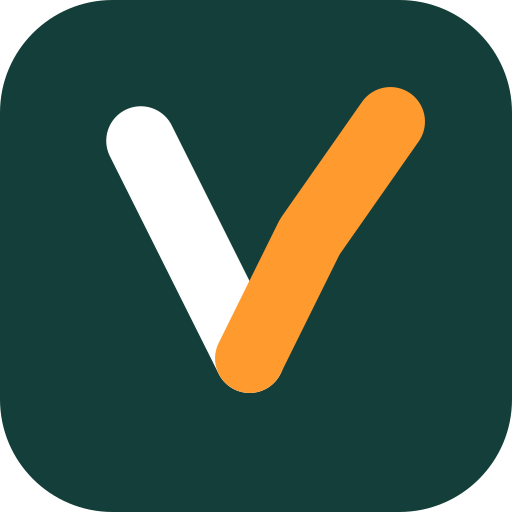
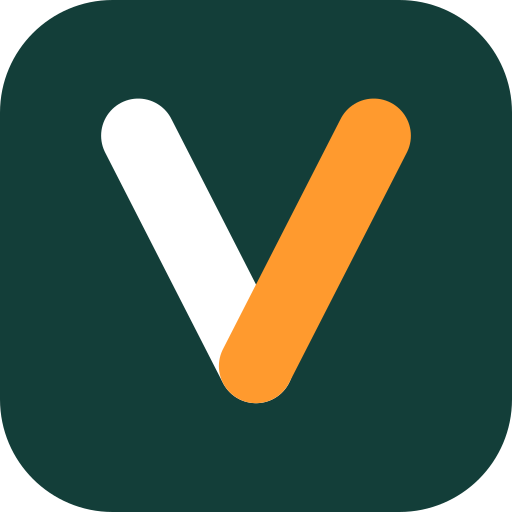
feat(brand): adopt the symmetric V mark across the product
The new mark replaces the asymmetric V/checkmark: both arms now share the
same length and mirrored inclination (M10.8 10.6 L20 28.6 L29.2 10.6,
stroke 5.8), with the colour split falling exactly on the vertex.

Applied at every source of the mark, so no surface keeps the old geometry:
- src/app/icon.svg (browser tab)
- src/components/public/Logo.tsx (header/footer wordmark, embed shell)
- src/lib/widgets/images.tsx (Mark, used by the OG/widget cards)
- scripts/generate-brand-assets.mjs (markPaths), then re-run to regenerate
  icon-192/512, icon-maskable-512, favicon, apple-icon and opengraph-image
- design/instagram-{post,story}.html — the delivered kit missed these; the
  exported PNGs next to them still show the old mark and need a re-render

brand/ keeps the kit as delivered, for provenance. Its patch/*.tsx files are
code fragments rather than modules, so brand/ is excluded from tsconfig and
eslint — otherwise typecheck fails on their undefined colour constants.

diff --git a/design/instagram-post.html b/design/instagram-post.html
@@ -130,8 +130,8 @@ p.txt + p.txt{margin-top:28px}
   <div class="layer head">
     <svg width="34" height="34" viewBox="0 0 40 40" fill="none" aria-hidden="true">
       <rect width="40" height="40" rx="11" fill="#133e39"/>
-      <path d="M11 11 L19.5 28" stroke="#ffffff" stroke-width="5.4" stroke-linecap="round" stroke-linejoin="round"/>
-      <path d="M19.5 28 L24.2 18.5 L30.5 9.5" stroke="#ff9a2e" stroke-width="5.4" stroke-linecap="round" stroke-linejoin="round"/>
+      <path d="M10.8 10.6 L20 28.6" stroke="#ffffff" stroke-width="5.8" stroke-linecap="round" stroke-linejoin="round"/>
+      <path d="M20 28.6 L29.2 10.6" stroke="#ff9a2e" stroke-width="5.8" stroke-linecap="round" stroke-linejoin="round"/>
     </svg>
     <span class="wm">Votto</span>
     <span class="pg">1 / 5</span>
@@ -166,8 +166,8 @@ p.txt + p.txt{margin-top:28px}
   <div class="layer head">
     <svg width="34" height="34" viewBox="0 0 40 40" fill="none" aria-hidden="true">
       <rect width="40" height="40" rx="11" fill="#133e39"/>
-      <path d="M11 11 L19.5 28" stroke="#ffffff" stroke-width="5.4" stroke-linecap="round" stroke-linejoin="round"/>
-      <path d="M19.5 28 L24.2 18.5 L30.5 9.5" stroke="#ff9a2e" stroke-width="5.4" stroke-linecap="round" stroke-linejoin="round"/>
+      <path d="M10.8 10.6 L20 28.6" stroke="#ffffff" stroke-width="5.8" stroke-linecap="round" stroke-linejoin="round"/>
+      <path d="M20 28.6 L29.2 10.6" stroke="#ff9a2e" stroke-width="5.8" stroke-linecap="round" stroke-linejoin="round"/>
     </svg>
     <span class="wm">Votto</span>
     <span class="pg">2 / 5</span>
@@ -209,8 +209,8 @@ p.txt + p.txt{margin-top:28px}
   <div class="layer head">
     <svg width="34" height="34" viewBox="0 0 40 40" fill="none" aria-hidden="true">
       <rect width="40" height="40" rx="11" fill="#133e39"/>
-      <path d="M11 11 L19.5 28" stroke="#ffffff" stroke-width="5.4" stroke-linecap="round" stroke-linejoin="round"/>
-      <path d="M19.5 28 L24.2 18.5 L30.5 9.5" stroke="#ff9a2e" stroke-width="5.4" stroke-linecap="round" stroke-linejoin="round"/>
+      <path d="M10.8 10.6 L20 28.6" stroke="#ffffff" stroke-width="5.8" stroke-linecap="round" stroke-linejoin="round"/>
+      <path d="M20 28.6 L29.2 10.6" stroke="#ff9a2e" stroke-width="5.8" stroke-linecap="round" stroke-linejoin="round"/>
     </svg>
     <span class="wm">Votto</span>
     <span class="pg">3 / 5</span>
@@ -261,8 +261,8 @@ p.txt + p.txt{margin-top:28px}
   <div class="layer head">
     <svg width="34" height="34" viewBox="0 0 40 40" fill="none" aria-hidden="true">
       <rect width="40" height="40" rx="11" fill="#133e39"/>
-      <path d="M11 11 L19.5 28" stroke="#ffffff" stroke-width="5.4" stroke-linecap="round" stroke-linejoin="round"/>
-      <path d="M19.5 28 L24.2 18.5 L30.5 9.5" stroke="#ff9a2e" stroke-width="5.4" stroke-linecap="round" stroke-linejoin="round"/>
+      <path d="M10.8 10.6 L20 28.6" stroke="#ffffff" stroke-width="5.8" stroke-linecap="round" stroke-linejoin="round"/>
+      <path d="M20 28.6 L29.2 10.6" stroke="#ff9a2e" stroke-width="5.8" stroke-linecap="round" stroke-linejoin="round"/>
     </svg>
     <span class="wm">Votto</span>
     <span class="pg">4 / 5</span>
@@ -304,8 +304,8 @@ p.txt + p.txt{margin-top:28px}
   <div class="layer head">
     <svg width="34" height="34" viewBox="0 0 40 40" fill="none" aria-hidden="true">
       <rect width="40" height="40" rx="11" fill="#133e39"/>
-      <path d="M11 11 L19.5 28" stroke="#ffffff" stroke-width="5.4" stroke-linecap="round" stroke-linejoin="round"/>
-      <path d="M19.5 28 L24.2 18.5 L30.5 9.5" stroke="#ff9a2e" stroke-width="5.4" stroke-linecap="round" stroke-linejoin="round"/>
+      <path d="M10.8 10.6 L20 28.6" stroke="#ffffff" stroke-width="5.8" stroke-linecap="round" stroke-linejoin="round"/>
+      <path d="M20 28.6 L29.2 10.6" stroke="#ff9a2e" stroke-width="5.8" stroke-linecap="round" stroke-linejoin="round"/>
     </svg>
     <span class="wm">Votto</span>
     <span class="pg">5 / 5</span>

diff --git a/src/lib/widgets/images.tsx b/src/lib/widgets/images.tsx
@@ -57,11 +57,11 @@ function Mark({ size }: { size: number }) {
   return (
     <svg width={size} height={size} viewBox="0 0 40 40" fill="none">
       <rect x={0} y={0} width={40} height={40} rx={9} fill={SUBTLE} />
-      <path d="M11 11 L19.5 28" stroke={WHITE} strokeWidth={5.4} strokeLinecap="round" strokeLinejoin="round" />
+      <path d="M10.8 10.6 L20 28.6" stroke={WHITE} strokeWidth={5.8} strokeLinecap="round" strokeLinejoin="round" />
       <path
-        d="M19.5 28 L24.2 18.5 L30.5 9.5"
+        d="M20 28.6 L29.2 10.6"
         stroke={ACCENT}
-        strokeWidth={5.4}
+        strokeWidth={5.8}
         strokeLinecap="round"
         strokeLinejoin="round"
       />

diff --git a/design/instagram-story.html b/design/instagram-story.html
@@ -85,8 +85,8 @@ body{
 
   <svg width="60" height="60" viewBox="0 0 40 40" fill="none" aria-hidden="true">
     <rect width="40" height="40" rx="11" fill="#133e39"/>
-    <path d="M11 11 L19.5 28" stroke="#ffffff" stroke-width="5.4" stroke-linecap="round" stroke-linejoin="round"/>
-    <path d="M19.5 28 L24.2 18.5 L30.5 9.5" stroke="#ff9a2e" stroke-width="5.4" stroke-linecap="round" stroke-linejoin="round"/>
+    <path d="M10.8 10.6 L20 28.6" stroke="#ffffff" stroke-width="5.8" stroke-linecap="round" stroke-linejoin="round"/>
+    <path d="M20 28.6 L29.2 10.6" stroke="#ff9a2e" stroke-width="5.8" stroke-linecap="round" stroke-linejoin="round"/>
   </svg>
 
   <div>

diff --git a/brand/patch/src-lib-widgets-images-Mark.tsx b/brand/patch/src-lib-widgets-images-Mark.tsx
@@ -1,0 +1,12 @@
+// Substitua APENAS a função Mark em src/lib/widgets/images.tsx (linhas ~56-70).
+
+/** The Votto "V" mark on a translucent tile, sized in px (SVG scales via viewBox). */
+function Mark({ size }: { size: number }) {
+  return (
+    <svg width={size} height={size} viewBox="0 0 40 40" fill="none">
+      <rect x={0} y={0} width={40} height={40} rx={9} fill={SUBTLE} />
+      <path d="M10.8 10.6 L20 28.6" stroke={WHITE} strokeWidth={5.8} strokeLinecap="round" strokeLinejoin="round" />
+      <path d="M20 28.6 L29.2 10.6" stroke={ACCENT} strokeWidth={5.8} strokeLinecap="round" strokeLinejoin="round" />
+    </svg>
+  );
+}

diff --git a/brand/patch/src-components-public-Logo.tsx b/brand/patch/src-components-public-Logo.tsx
@@ -48,7 +48,7 @@ export function Logo({
         strokeLinejoin="round"
       />
 
-      {/* right arm, mirrored — brand orange accent */}
+      {/* right arm — brand orange accent */}
       <path
         d="M20 28.6 L29.2 10.6"
         stroke="var(--color-accent-500)"

diff --git a/brand/LEIA-ME.md b/brand/LEIA-ME.md
@@ -1,0 +1,66 @@
+# Nova marca Votto — pacote de assets
+
+V simétrico: braços de igual comprimento e inclinação espelhada, um caminho contínuo com junção
+redonda, cor dividida exatamente no vértice (branco à esquerda, #ff9a2e à direita).
+Geometria canônica na grade 40×40: `M10.8 10.6 L20 28.6 L29.2 10.6`, stroke-width 5.8,
+linecap/linejoin round, placa `rx="11"` em #133e39.
+
+## Onde substituir em votto.nosync
+
+| Arquivo do pacote | Destino |
+|---|---|
+| icon.svg | src/app/icon.svg |
+| favicon.png | public/favicon.png |
+| icon-192.png | public/icon-192.png |
+| icon-512.png | public/icon-512.png |
+| apple-icon-180.png | public/apple-icon.png |
+| opengraph-image.png | src/app/opengraph-image.png |
+| logo.svg | asset de marca / kit de imprensa |
+| logo-mark-only.svg | uso sobre fundo claro, sem placa |
+
+Atenção: a marca antiga aparece em quatro lugares no código — `src/app/icon.svg`,
+`src/components/public/Logo.tsx`, `src/lib/widgets/images.tsx` (função `Mark`, usada nos widgets
+embed e nas imagens OG) e `scripts/generate-brand-assets.mjs`. Trocar só os PNGs deixa o produto
+inconsistente.
+
+## Arquivos de código a substituir (pasta patch/)
+
+Cole em cima dos originais — só a geometria muda, a estrutura é a mesma:
+
+| patch/ | Destino |
+|---|---|
+| src-app-icon.svg | src/app/icon.svg |
+| src-components-public-Logo.tsx | src/components/public/Logo.tsx |
+| src-lib-widgets-images-Mark.tsx | substitui a função `Mark` em src/lib/widgets/images.tsx |
+| scripts-generate-brand-assets-markPaths.mjs | substitui a função `markPaths` em scripts/generate-brand-assets.mjs |
+
+Depois de trocar o `markPaths`, rode `node scripts/generate-brand-assets.mjs` — ele regenera
+`icon-192`, `icon-512`, `icon-maskable-512`, `favicon.png`, `apple-icon.png` e a
+`opengraph-image.png` com a marca nova, mantendo a composição original do share card.
+Os PNGs que acompanham este pacote são alternativa caso você prefira não rodar o script
+(a `opengraph-image.png` daqui usa uma composição diferente, com headline).
+
+## Componente Logo (JSX)
+
+```jsx
+export function Logo({ size = 40, tile = true }) {
+  const id = React.useId();
+  return (
+    <svg width={size} height={size} viewBox="0 0 40 40" fill="none" aria-hidden="true">
+      <defs>
+        <clipPath id={`l${id}`}><rect x="-20" y="-20" width="40" height="90" /></clipPath>
+        <clipPath id={`r${id}`}><rect x="20" y="-20" width="90" height="90" /></clipPath>
+      </defs>
+      {tile && <rect width="40" height="40" rx="11" fill="#133e39" />}
+      <path d="M10.8 10.6 L20 28.6 L29.2 10.6" fill="none" strokeWidth="5.8"
+        strokeLinejoin="round" strokeLinecap="round"
+        stroke={tile ? "#ffffff" : "#133e39"} clipPath={`url(#l${id})`} />
+      <path d="M10.8 10.6 L20 28.6 L29.2 10.6" fill="none" strokeWidth="5.8"
+        strokeLinejoin="round" strokeLinecap="round"
+        stroke="#ff9a2e" clipPath={`url(#r${id})`} />
+    </svg>
+  );
+}
+```
+
+O wordmark não muda: Sora ExtraBold, tracking −0.045em, ponto final em #ff9a2e — **Votto.**
